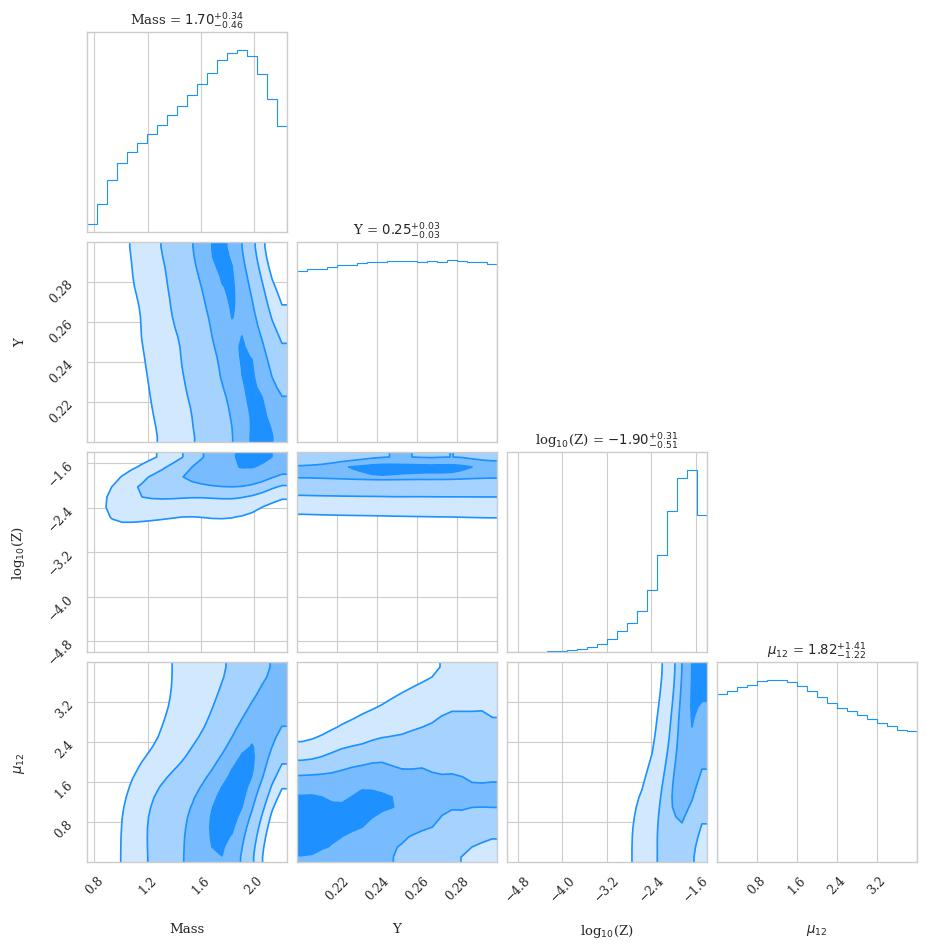
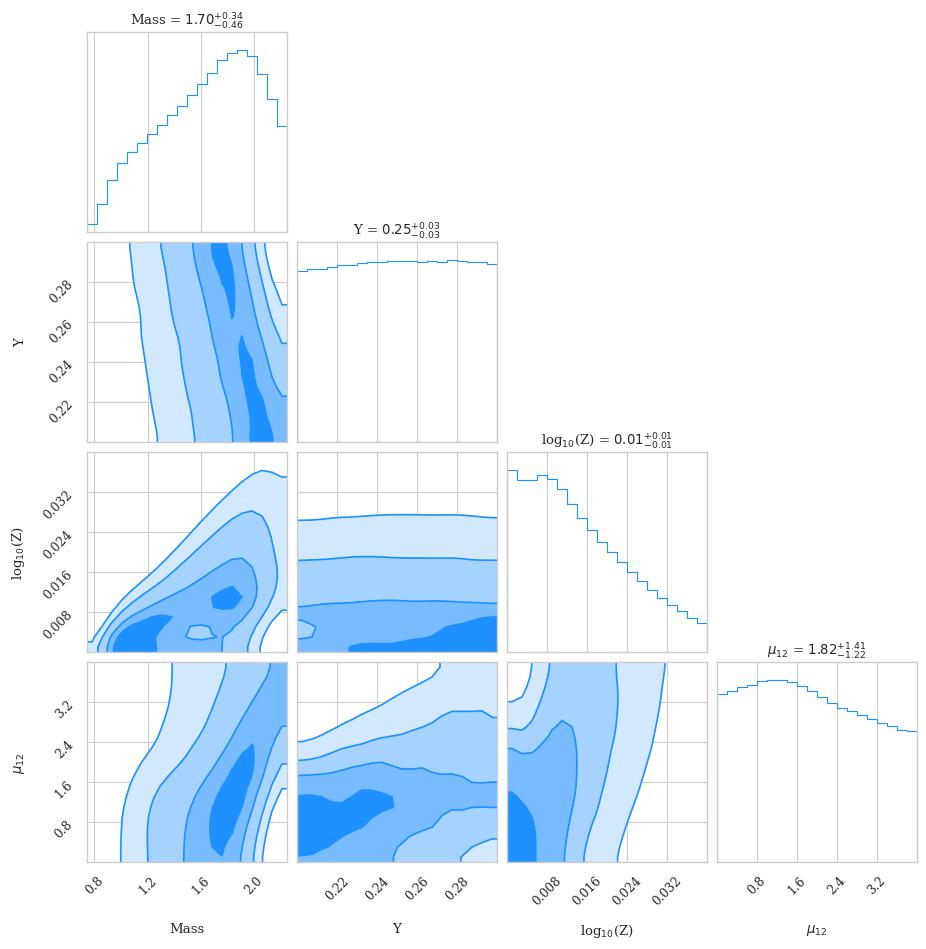
unlog Z

diff --git a/mcmc/analyzeMCMC.py b/mcmc/analyzeMCMC.py
@@ -111,7 +111,7 @@ def main():
     chain = np.load('chain.npy')
     
     # log Z
-    chain[:,2] = np.log10(chain[:, 2])
+    #chain[:,2] = np.log10(chain[:, 2])
     
     plotCorner(chain)
     testGaussian(chain)
